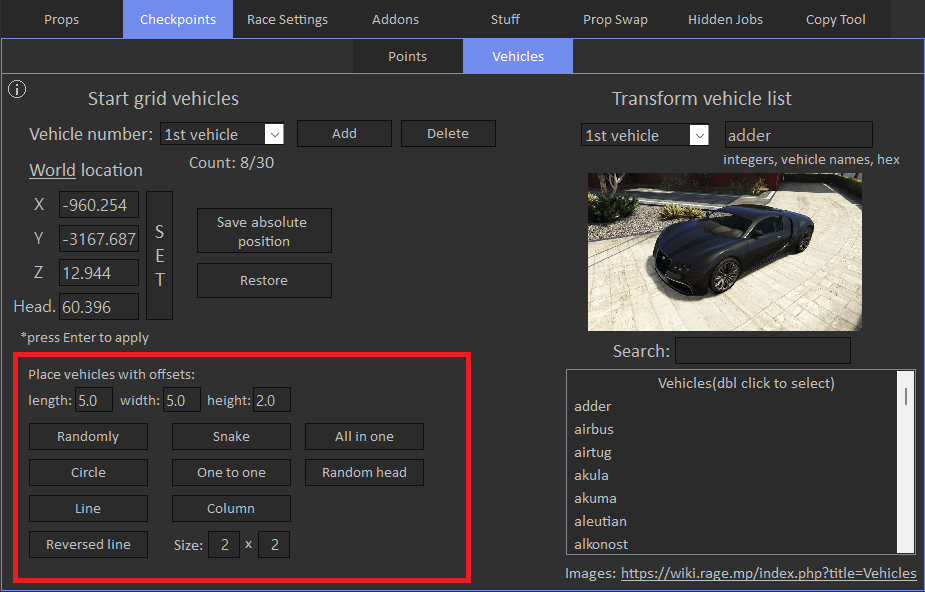
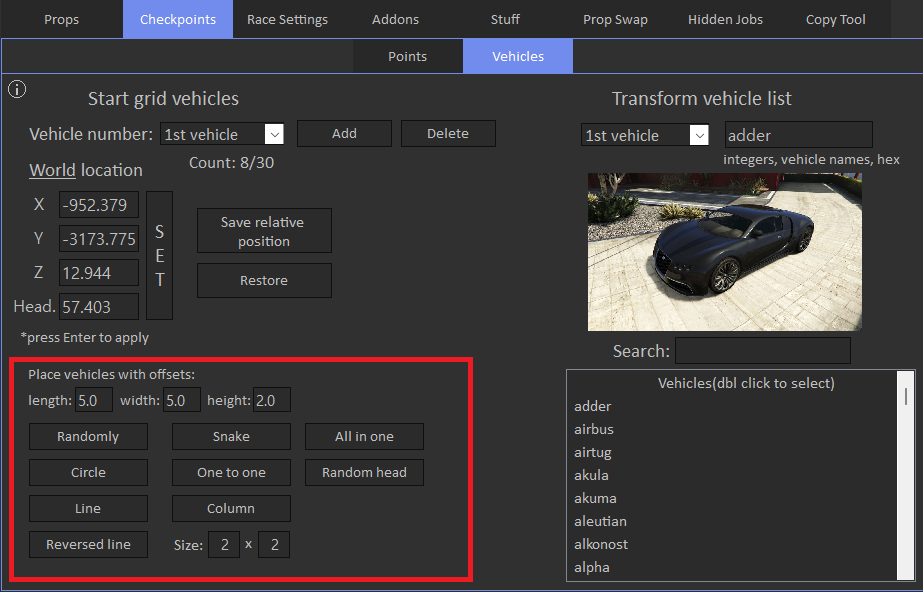
add race settings tab & veh presets

diff --git a/docs/checkpoints/vehicles/presets.md b/docs/checkpoints/vehicles/presets.md
@@ -3,3 +3,60 @@
 Grid vehicles presets allow you to place vehicles in various predefined positions.
 
 ![Vehicles1](/assets/images/checkpoints/img04.png)
+
+**WARNING:** Heading of the vehicles will be reset after entering test mode or reloading creator. So you need to publish your race right after modifying start grid vehicles.
+
+Here's how presets look like:
+
+Randomly:
+
+- Used settings: length.
+- Set random vehicles position in the sphere with radius set in length field.<br>
+![Preset1](/assets/images/checkpoints/img05.png)
+
+Circle:
+
+- Used settings: length.
+- Set vehicles in the circle with radius set in length field.
+- Note: this preset does not change Z coordinate.<br>
+![Preset2](/assets/images/checkpoints/img06.png)
+
+Line:
+
+- Used settings: length.
+- Set vehicles in the straight line with distance between vehicles set in length field.
+- Note: this preset does not change Z coordinate.<br>
+![Preset3](/assets/images/checkpoints/img07.png)
+
+Reversed line:
+
+- Same as 'Line' preset, but reversed(last vehicle is first, first vehicle is last).
+
+Snake:
+
+- Used settings: length, width.
+- Set vehicles in the curved line with distance between vehicles set in length field.
+- Note: this preset does not change Z coordinate.<br>
+![Preset4](/assets/images/checkpoints/img08.png)
+
+One to one:
+
+- Used settings: length, width.
+- Set vehicles in front of each other. You can control how close the vehicles are with length and width options.
+- Note: this preset does not change Z coordinate.<br>
+![Preset5](/assets/images/checkpoints/img09.png)
+
+Column:
+
+- Used settings: length, width, height, size.
+- Set vehicles in the cube with dimentions set in size options. You can control how close the vehicles are with length, width and height options.<br>
+![Preset6](/assets/images/checkpoints/img10.png)
+
+All in one:
+
+- Set same coordinates for all vehicles.<br>
+![Preset7](/assets/images/checkpoints/img11.png)
+
+Random head:
+
+- Set random heading for all vehicles. This option does not change position of the vehicles.

diff --git a/docs/props/blacklist.md b/docs/props/blacklist.md
@@ -9,33 +9,3 @@ Red triangle will appear if prop is blacklisted.
 Instead of scrolling through all props, you can press '?' sign that will show if there any blacklisted props on the map.
 
 ![Props1](/assets/images/props/img03.png)
-
-Location tips: 
-
-- Position and rotation are not auto-applied after editing, you need to press Enter to apply changes.
-- 'SET' button sets cursor position to the appropriate position fields.
-- Position and rotation support arrow control(it depends on world/local alignment), more on [Arrow Control](chapters/chapter1/overview.md) page.
-
-Rendering dist:
-
-- Sets distance from which prop will become visible.
-- To make prop invisible, set it to 1.
-- Max value is 65000.
-
-Prpbs and prpbs2 are for advanced users, it's a bit set for various prop options.
-
-To make prop invisible, you may also activate Invisble checkbox, but unfortunately it does not work for stunt props in online mode, so it's better to modify rendering distance.
-
-Activation time controls dynamic arena traps activation delay in seconds.
-
-Bulk edit:
-
-- You can bulk edit prop options(except for position/rotation) by typing desired props range and pressing 'Apply settings for props in range' button.
-- To skip some options for bulk editing, select 'Don't apply' option from dropdown.
-
-Yeah I know bulk edit is a bit weird, but maybe i'll rework it in the future.
-
-There are save and restore options:
-
-- Save options depends on specified props range.
-- Restore options doesn't overwrite exising props, it appends them.

diff --git a/docs/race-settings/map-options/overview.md b/docs/race-settings/map-options/overview.md
@@ -1,0 +1,16 @@
+# Map Options
+
+Map options tab allows to view and modify global settings of the map.
+
+![Img1](/assets/images/race-settings/img01.png)
+
+'Lock' option for trigger locks it's coordinates so they cannot be changed. This can be useful when you often toggle arena mode, so trigger coordinates will not be overriden by the game.
+
+'Lock type' for race type also locks it's so it will not be overriden by the game. Sometimes it can be useful when race type automatically changes when you save your race.
+
+'DNF time(sec)' sets race end time in seconds after half of the players finished the race. 0 means use default value, which is 30 seconds.
+
+You can also save and restore whole map with all the settings, except for photo.<br>
+**WARNING:** saved file is only valid in scope of the game version that is was saved on, it means that after next DLC previously saved map files become invalid.
+
+Saved templates and race options file are independant to game updates. Race options file contains some basic map configuration like title, description, type, etc.

diff --git a/docs/race-settings/locations/overview.md b/docs/race-settings/locations/overview.md
@@ -1,0 +1,12 @@
+# Locations
+
+Locations tab allows to load IPLs.
+
+![Img1](/assets/images/race-settings/img03.png)
+
+The only IPL that works in races is Cayo Perico. There are also options to customize things on the island.
+
+LS Car Meet location is under textures, so it's better to explore it when you switch from free camera to vehicle.
+
+North Yankton can only be loaded in creator.<br>
+**WARNING:** it cannot be saved to the map, it means yankton will not be loaded in online race.

diff --git a/docs/index.md b/docs/index.md
@@ -5,3 +5,7 @@ Mod Tool is designed to work only in the race creator. It extends the stock feat
 To access creator, first disable BE, then after loading into story mode press 'Load Creator' button.
 
 ![Load Creator](/assets/images/introduction/img01.png)
+
+From the beginning, it's recommended to disable 'Pause Game On Focus Loss' option in the game settings.
+
+![Pause](/assets/images/introduction/img02.png)

diff --git a/docs/race-settings/online-options/overview.md b/docs/race-settings/online-options/overview.md
@@ -1,0 +1,9 @@
+# Online Options
+
+Online options tab allows to modify lobby and online race settings.
+
+![Img1](/assets/images/race-settings/img04.png)
+
+'Online lobby options' toggle visibility of specific options in the race lobby.
+
+'Online race options' control settings of the online race. Some of them may not work in creator, but will in online mode.

diff --git a/docs/race-settings/vehicles/overview.md b/docs/race-settings/vehicles/overview.md
@@ -1,0 +1,9 @@
+# Vehicles
+
+Vehicles tab allows to modify available vehicles.
+
+![Img1](/assets/images/race-settings/img02.png)
+
+You can toggle on/off all available vehicle cathegories, or you can toggle them separately.
+
+Also if you enabled all cathegories, you may want to disable 'Special' cathegory, because it will the only one to display on game.

diff --git a/docs/race-settings/menubs/overview.md b/docs/race-settings/menubs/overview.md
@@ -1,0 +1,5 @@
+# menubs
+
+Menubs settings are for advanced users. Most of the options are reflected on the Online Options tab.
+
+![Img1](/assets/images/race-settings/img05.png)
